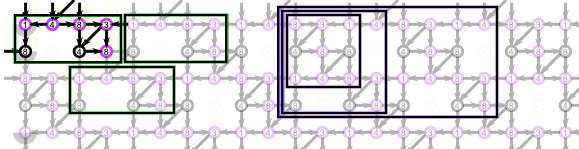
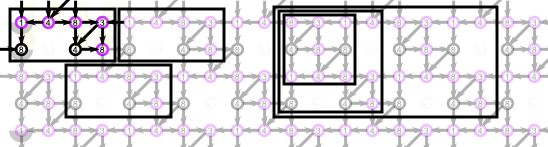
images with step numbers and swapped stitches
numbered annotations with
* font "Snell Roundhand", 30 pt on a Mac
* a brighter red than suggested convention in the project readme
  * suggested was #9b0219
  * applied 29% brightness with a gray scale slider resulting in #B31835

diff --git a/docs/tiles.html b/docs/tiles.html
@@ -153,7 +153,7 @@
         <figure class="pattern">
             <figcaption>
                 Tile layout
-                <a href="help/Change-tiles" target="_blank"><img src="help/images/information-icon.png" title="arrange tiles"></a>
+                <a href="help/Change-tiles" target="_blank"><img src="help/images/information-icon.png" title="how to change tiles"></a>
             </figcaption>
             <div>
                 <svg xmlns="http://www.w3.org/2000/svg" xmlns:xlink="http://www.w3.org/1999/xlink" version="1.1" id="svg2" width="297.11" height="130.39" viewBox="0 0 278.54 122.24">

diff --git a/docs/help/Change-tiles.md b/docs/help/Change-tiles.md
@@ -28,7 +28,7 @@ marked with some possible base tiles.
 
 ![](images/brick-to-overlap-prepare.png)
 
-The faint stitches repeat the bright ones. The 2x4 rectangles around the stitches show that the repetition has a brick layout.
+The faint stitches repeat the bright ones. The 4x2 rectangles around the stitches show that the repetition has a brick layout.
 The 3x3 tile looks more like a unit presented in traditional text books.
 The larger tiles allows you to vary stitches in more units. 
 
@@ -39,7 +39,7 @@ The video in words
 * Start with the "alternating" layout on the right, 
     then nudge the tiles until the corners _overlap_ with the following steps.
   * Move the purple tile with the black arrows in north-west direction until you have proper diagonals.
-  * Then move the green tile to the north-east get the diagonals together.
+  * Then move the green tile to the north-east to get the diagonals together.
   * The overlap can cause unexpected behaviour. 
     Fix this by changing the bottom corners to "-" in the input field.
     Note thate these stitches become faint.
@@ -47,8 +47,19 @@ The video in words
   * The 4x2 tile with "brick layout". 
   * The 4x4 tile with the "simple" layout at the left top.
   * The 8x4 tile with the "simple" as well as the "brick" layout.
+  
+Below the order of typing text and clicking buttons as shown in the video.
+The video shows what happens in the diagram with each action.
+In the video the "tile layout" panel wrapped to the next line because of a smaller browser window.  
+![](images/brick-to-overlap-order.png)
 
-Subsequently, you will have to adjust what stitches to make at each grid position to get the original thread diagram.
+Changed stitches
+----------------
+Note below how the black and blue stitches swapped in the pattern as a consequence of the tile change.
+  
+![](images/brick-to-overlap-stitches.png)
+
+You will have to adjust to get the original thread diagram.
 Use two browser windows, one with the old tile layout, one with the new tile layout.
-Then you can copy-paste the corresponding stitches.
+Then you can copy-paste the corresponding [stitches](Replace).
 
